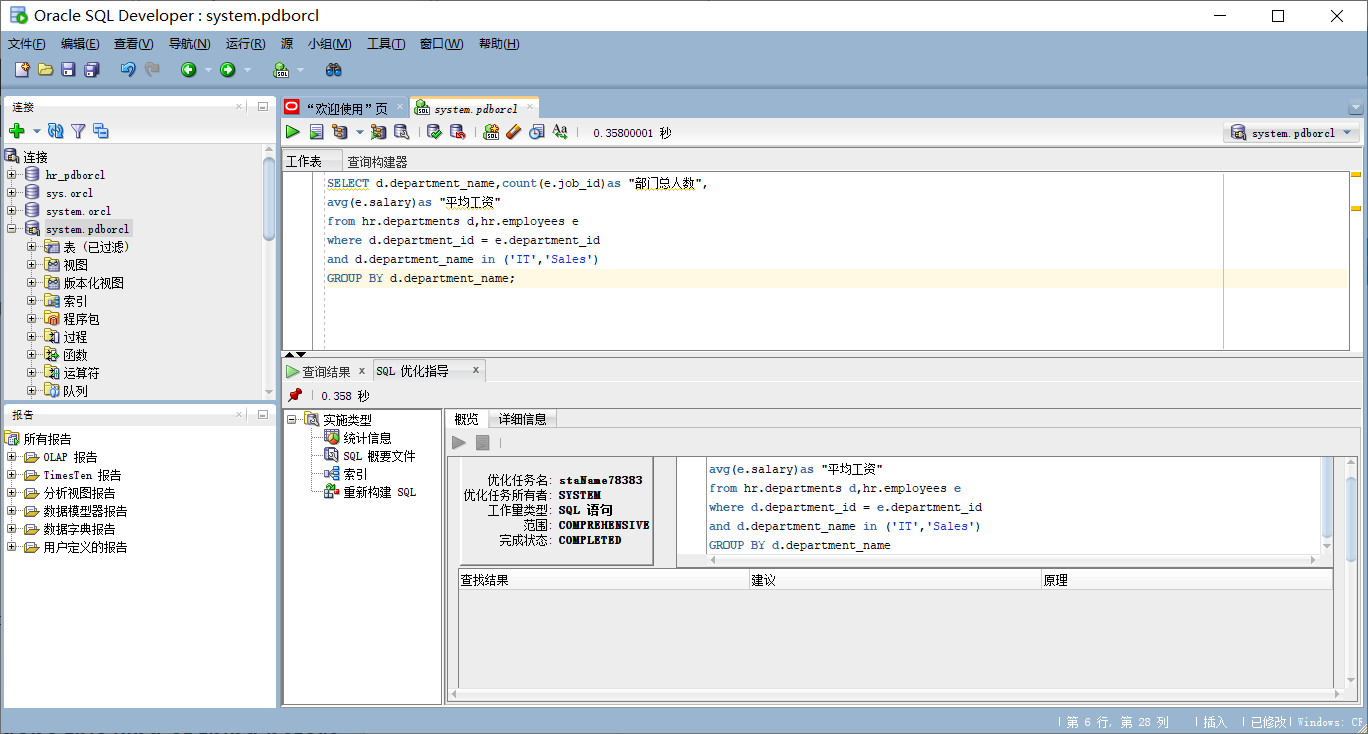
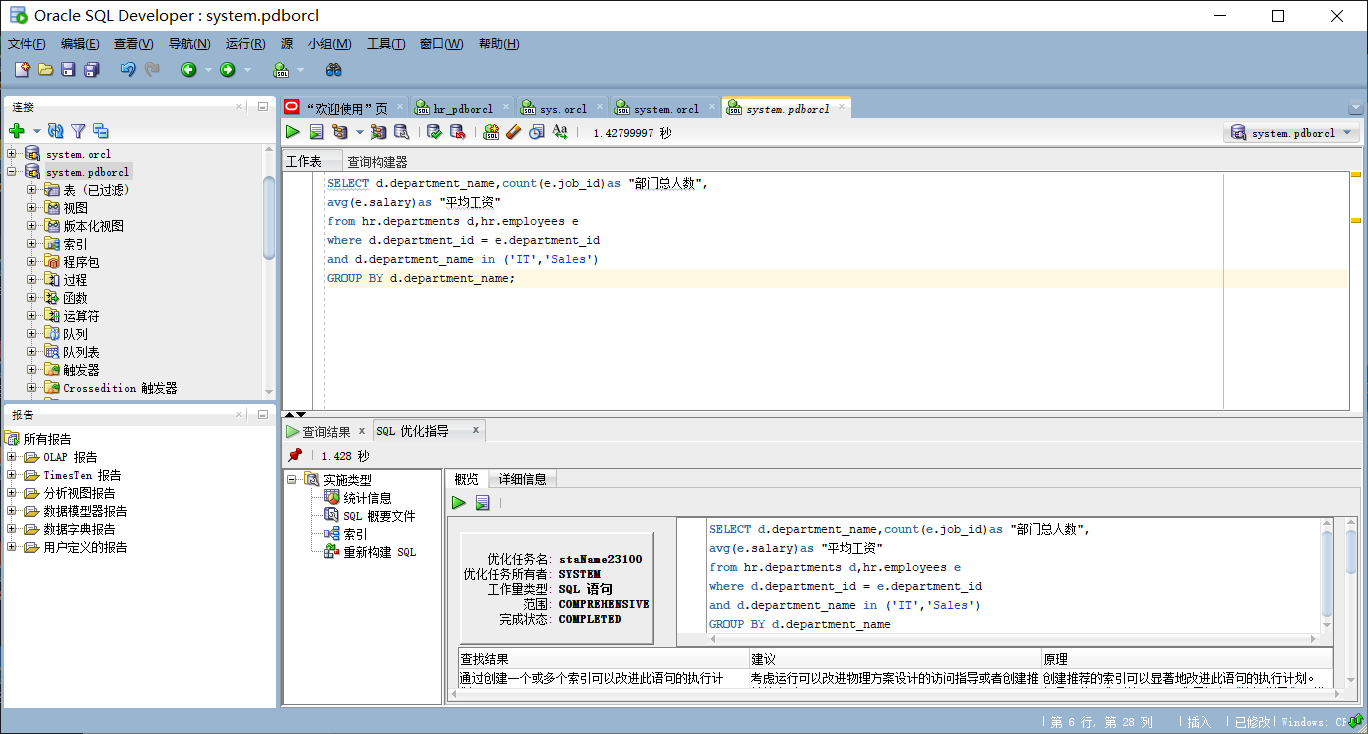
yes

diff --git a/test1/REAMD.md b/test1/REAMD.md
@@ -1,12 +1,12 @@
 # 实验一：SQL语句的执行计划分析与优化指导
 
-## 2班-201810414221-吴俊成
+## 软工二班-201810414221-吴俊成
 
-### 1、实验目的
+### 实验目的
 
 #### 分析SQL执行计划，执行SQL语句的优化指导。理解分析SQL语句的执行计划的重要作用
 
-### 2、实验内容
+### 实验内容
 
 #### （1）对Oracle12c中的HR人力资源管理系统中的表进行查询与分析
 
@@ -14,9 +14,9 @@
 
 #### （3）设计自己的查询语句，并作相应的分析，查询语句不能太简单
 
-### 3、查询教材中的内容
+### 查询教材中的内容
 
-#### （1）查询1
+#### 查询1
 
 SELECT d.department_name,count(e.job_id)as "部门总人数",
 avg(e.salary)as "平均工资"
@@ -25,26 +25,32 @@ where d.department_id = e.department_id
 and d.department_name in ('IT','Sales')
 GROUP BY d.department_name;
 
+#### 代码一运行结果如图
+
+![代码一运行](./代码一运行.png)
+
 #### 分析：该查询语句通过从两个部门来查询部门的总人数和平均工资，通过创建一个或多个索引可以改进此语句的执行计划。建议考虑运行可以改进物理方案设计的访问指导或者创建推荐的索引。原理是创建推荐的索引可以显著地改进此语句的执行计划。但是，使用典型的SQL工作量运行“访问指导”可能比单个语句更可取。通过这种方法可以获得全面的索引建议案，包括计算索引维护的开销和附加的空间消耗
 
-#### 运行结果如图
+![代码一建议](./代码一建议.png)
 
-![]()
+#### 查询2
 
-#### （2）查询2
-
-SELECT d.department_name,count(e.job_id)as "部门总人数",a
+SELECT d.department_name,count(e.job_id)as "部门总人数",
 avg(e.salary)as "平均工资"
 FROM hr.departments d,hr.employees e
 WHERE d.department_id = e.department_id
 GROUP BY d.department_name
 HAVING d.department_name in ('IT','Sales');
 
+#### 代码二运行结果如图
+
+![代码二运行](./代码二运行.png)
+
 #### 分析：该查询语句通过从HR的部门表和员工表按照部门分组，判断部门ID和员工ID是否对应，由having确认部门名字是IT和sales来查询部门总人数和平均工资。该查询语句比第一条查询语句要好一点，没有给出优化建议
 
-#### 运行结果如图
+![代码二建议](./代码二建议.png)
 
-### 4、优化后的代码
+### 优化后的代码
 
 SELECT d.department_name,count(e.job_id)as "部门总人数",avg(e.salary)as "平均工资"
 FROM  hr.departments d,hr.employees e
@@ -53,3 +59,5 @@ WHERE e.department_id=d.department_id and (d.department_id=60 or  d.department_i
 #### 分析：该查询语句通过从部门表和员工表判断部门ID和员工ID相等，以部门名分组来达到查询部门总人数和平均工资的目的
 
 #### 运行结果如图
+
+![优化代码](./优化代码.png)
